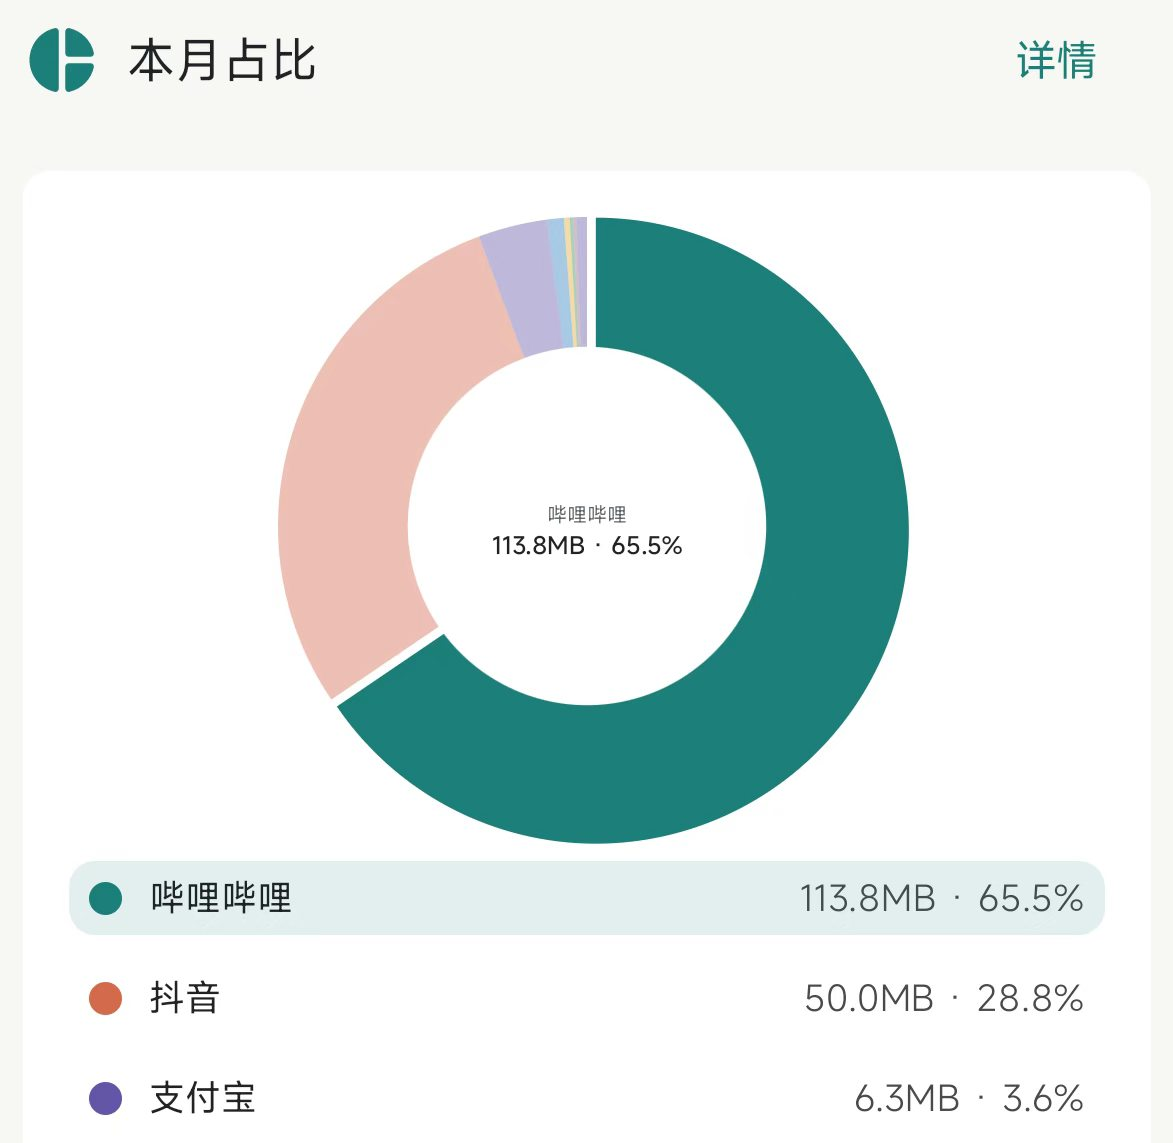
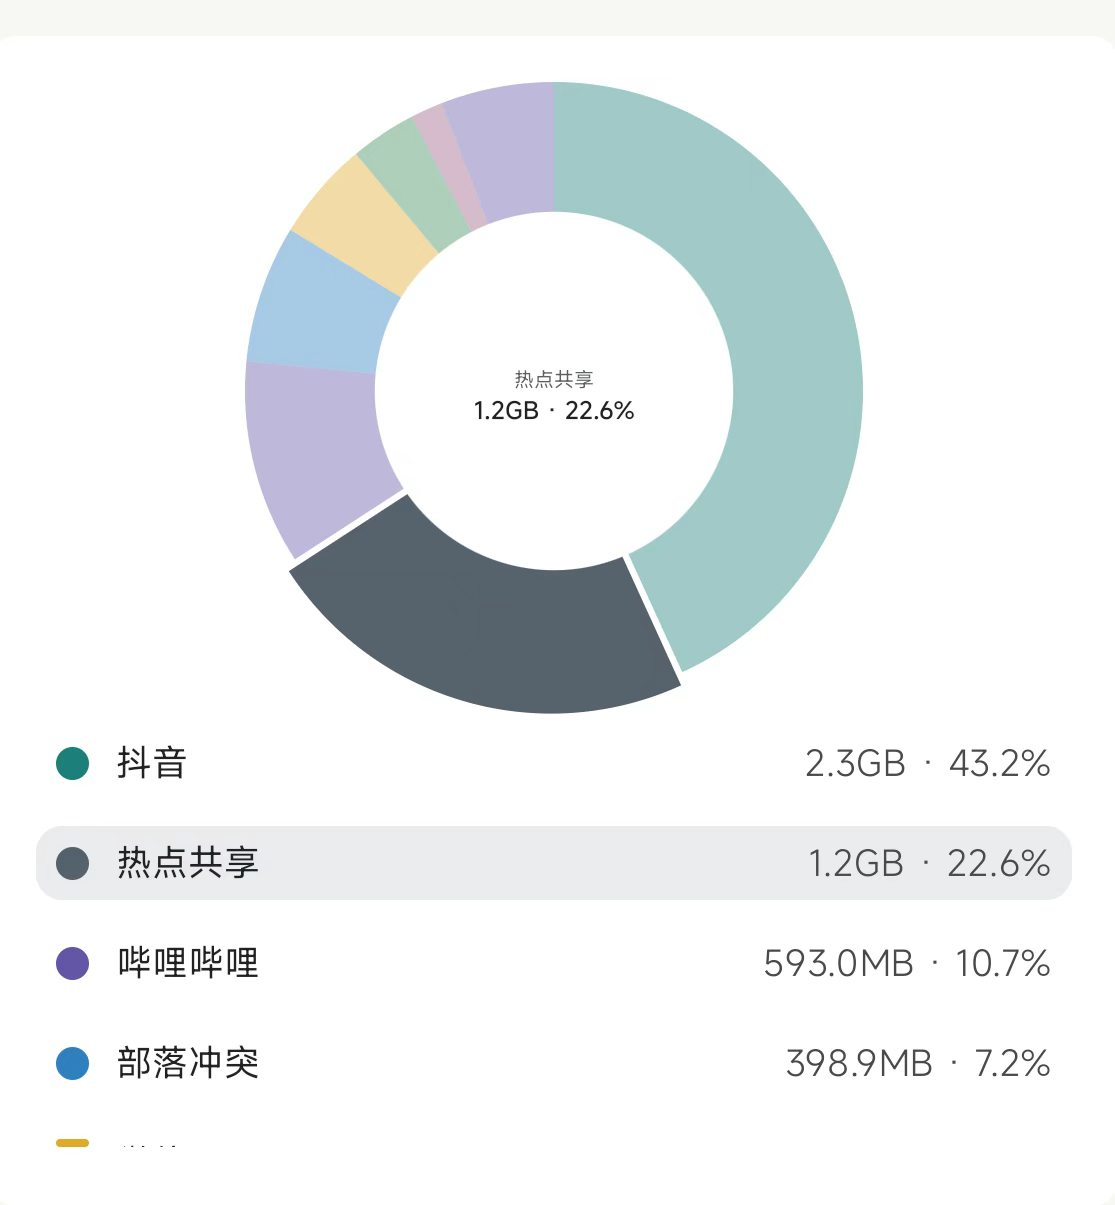
更新readme

diff --git a/README.md b/README.md
@@ -102,8 +102,8 @@
 - 增加一个简洁开屏动画
 
 <p align="center">
-  <a href="./img/opening.jpg">
-    <img src="./img/opening.jpg" width="320" alt="开屏动画">
+  <a href="./img/opening.gif">
+    <img src="./img/opening.gif" width="320" alt="开屏动画">
   </a>
 </p>
 